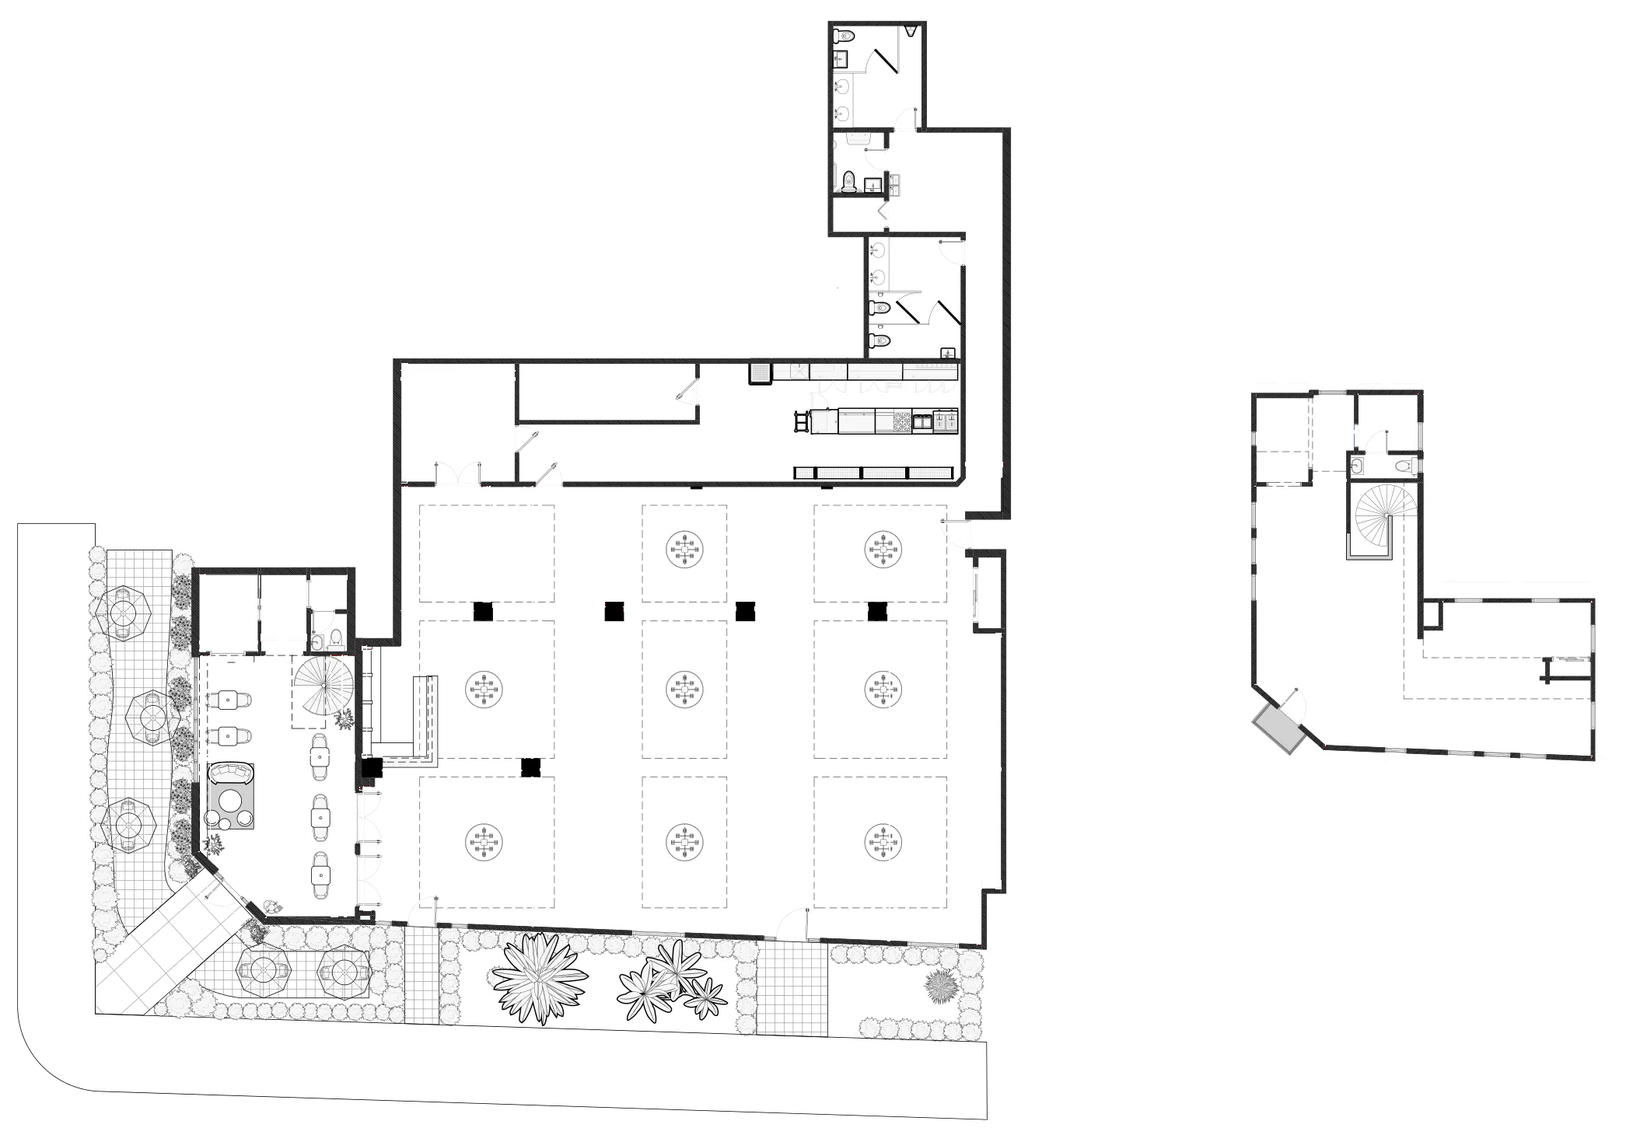
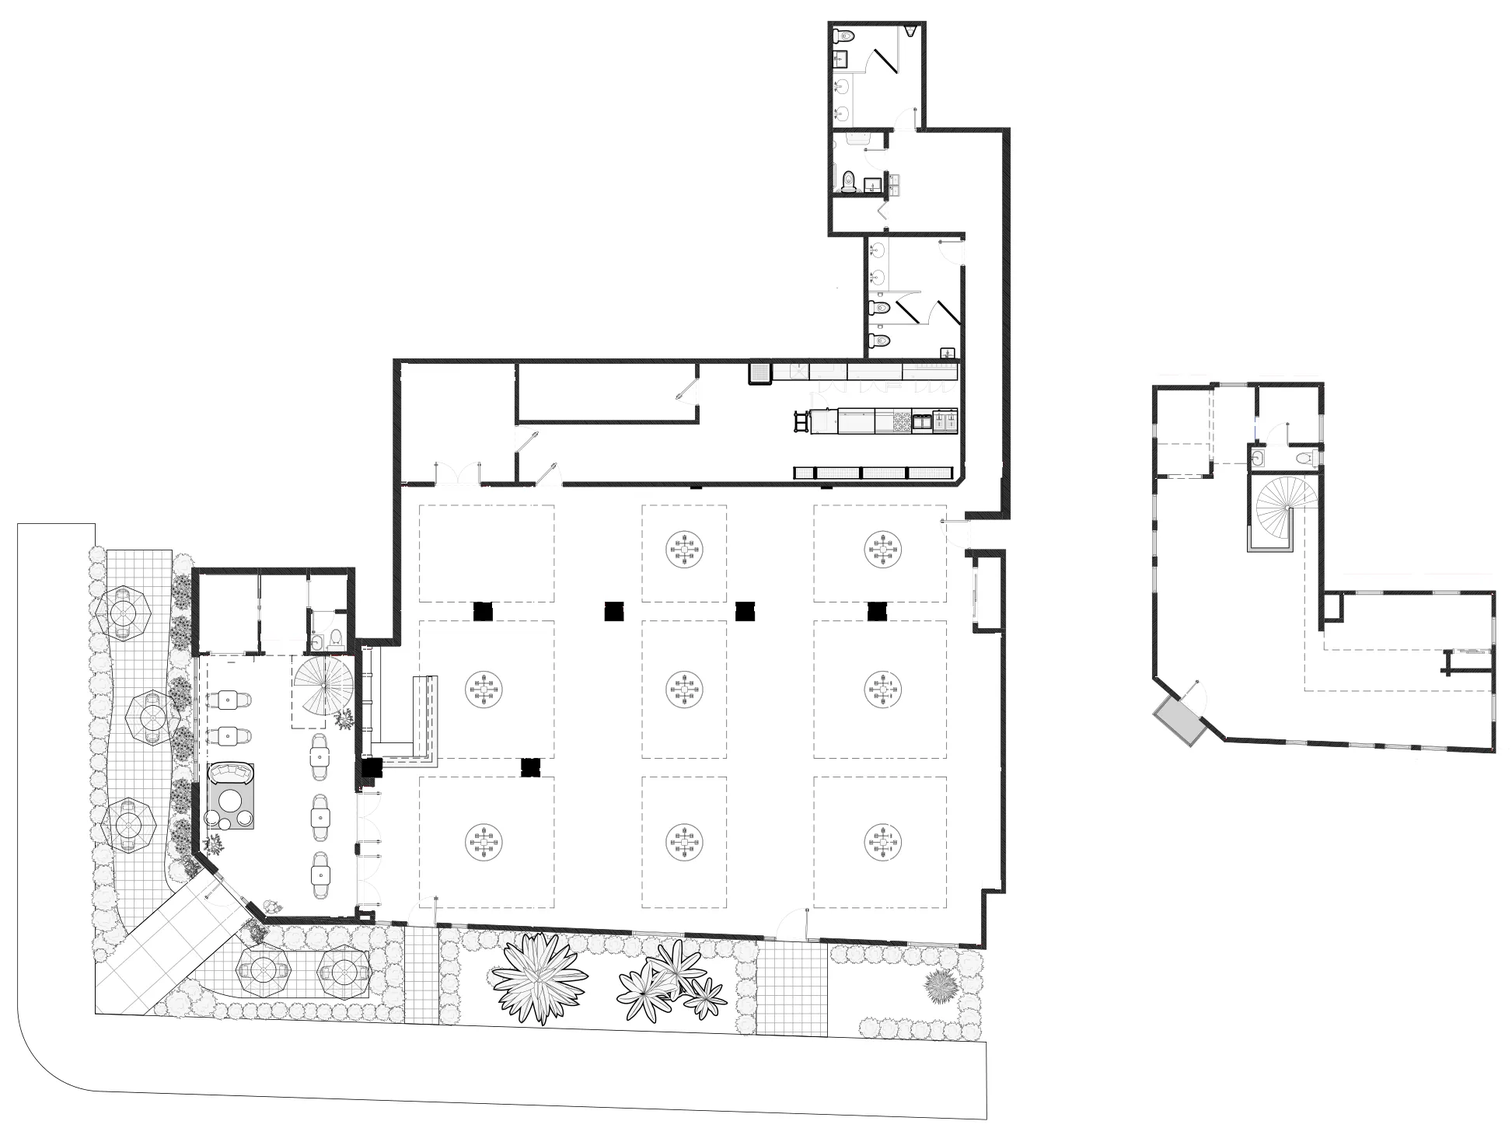
v1.32.1: the inspiration board arrives with the scroll; plan labels, florals print and Lexington frame fixed
- "Imagine it your way" moves: from 901 px the split closes, the LJ seal stamps
  the seam and the plaque polaroid drops onto the corner; on phones the three
  polaroids are dealt in. Driven by the board's own --board-arrival scroll scene,
  the two large pictures drift in their frames, and desktop hover zooms the
  picture under the pointer and turns the seal once. Still under reduced
  motion and Save-Data.
- Floor plan: both floors set side by side at the same scale with a smaller
  gap, and each label sits under its own floor.
- Services florals photograph is a framed print: the bouquet is no longer cut
  at the top and the caption no longer touches the frame edge.
- The Lexington picture fills its arched window with one gold hairline and a
  soft halo instead of a dark gap and a second line.

Claude-Session: https://claude.ai/code/session_01MGJ92D1NKGyL1xAzQCh2iW

diff --git a/index.html b/index.html
@@ -68,12 +68,12 @@
 </script>
 <meta name="color-scheme" content="light"/>
 <meta name="google-maps-browser-key" content=""/>
-<meta name="application-version" content="1.32.0"/>
+<meta name="application-version" content="1.32.1"/>
 <link href="assets/favicon.ico" rel="icon" sizes="any"/>
 <link href="assets/favicon-32.png" rel="icon" sizes="32x32" type="image/png"/>
 <link href="assets/apple-touch-icon.png" rel="apple-touch-icon"/>
 <script>document.documentElement.classList.add("js");</script>
-<link href="styles.css?v=1.32.0" rel="stylesheet"/>
+<link href="styles.css?v=1.32.1" rel="stylesheet"/>
 <link href="assets/fonts/Manrope-latin.woff2" as="font" crossorigin="" rel="preload" type="font/woff2"/>
 <link href="assets/brand/la-jolla-script.svg" as="image" crossorigin="" rel="preload" type="image/svg+xml"/></head>
 <body id="top" class="landing-page">
@@ -268,9 +268,9 @@
 <p class="eyebrow" data-i18n="inspiration.eyebrow">Inspiration</p>
 <h2 id="inspiration-title" class="lockup-script" data-i18n="inspiration.title">Imagine it your way</h2>
 <div class="inspiration-board">
-<figure class="inspiration-print inspiration-print--facade"><picture><source type="image/avif" srcset="assets/venue/web/inspiration-facade.avif"><img src="assets/venue/web/inspiration-facade.webp" alt="An ivy-covered facade dressed as a tea salon, with striped awnings, flowers on the balcony and a pastry cart." width="660" height="825" data-i18n="inspiration.alt.facade" data-i18n-attr="alt" loading="lazy" decoding="async"/></picture><figcaption data-i18n="inspiration.caption.facade">Dressed for a brand</figcaption></figure>
+<figure class="inspiration-print inspiration-print--facade" data-landing-parallax=""><picture><source type="image/avif" srcset="assets/venue/web/inspiration-facade.avif"><img src="assets/venue/web/inspiration-facade.webp" alt="An ivy-covered facade dressed as a tea salon, with striped awnings, flowers on the balcony and a pastry cart." width="660" height="825" data-i18n="inspiration.alt.facade" data-i18n-attr="alt" loading="lazy" decoding="async"/></picture><figcaption data-i18n="inspiration.caption.facade">Dressed for a brand</figcaption></figure>
 <span class="inspiration-seal" aria-hidden="true"><img src="assets/brand/logo-lj-oval-cream.png" alt="" width="40" height="48" loading="lazy"/></span>
-<figure class="inspiration-print inspiration-print--salon"><picture><source type="image/avif" srcset="assets/venue/web/inspiration-salon.avif"><img src="assets/venue/web/inspiration-salon.webp" alt="A blush-pink tea salon with velvet chairs, marble tables, small lamps and a curving staircase." width="960" height="1200" data-i18n="inspiration.alt.salon" data-i18n-attr="alt" loading="lazy" decoding="async"/></picture><figcaption data-i18n="inspiration.caption.salon">A tea-salon afternoon</figcaption></figure>
+<figure class="inspiration-print inspiration-print--salon" data-landing-parallax=""><picture><source type="image/avif" srcset="assets/venue/web/inspiration-salon.avif"><img src="assets/venue/web/inspiration-salon.webp" alt="A blush-pink tea salon with velvet chairs, marble tables, small lamps and a curving staircase." width="960" height="1200" data-i18n="inspiration.alt.salon" data-i18n-attr="alt" loading="lazy" decoding="async"/></picture><figcaption data-i18n="inspiration.caption.salon">A tea-salon afternoon</figcaption></figure>
 <figure class="inspiration-print inspiration-print--plaque"><picture><source type="image/avif" srcset="assets/venue/web/inspiration-plaque.avif"><img src="assets/venue/web/inspiration-plaque.webp" alt="An oval La Jolla Coral Gables 1928 sign beside white flowers and a striped lamp." width="800" height="1000" data-i18n="inspiration.alt.plaque" data-i18n-attr="alt" loading="lazy" decoding="async"/></picture><figcaption data-i18n="inspiration.caption.plaque">Every welcome, signed</figcaption></figure>
 </div>
 </div>
@@ -337,7 +337,7 @@
 <li data-i18n="tour.info.reserve">A tour appointment does not reserve a space for an event.</li>
 <li data-i18n="tour.info.bring">Bring your ideas and inspiration to share with our team.</li>
 </ul>
-<figure class="tour-plan"><a href="assets/tour/floor-plan.webp" target="_blank" rel="noopener"><img src="assets/tour/floor-plan.webp" alt="Floor plan of La Jolla, first and second floor." width="2100" height="1460" data-i18n="tour.planAlt" data-i18n-attr="alt" loading="lazy" decoding="async"/><span class="sr-only" data-i18n="tour.planOpen">Opens the floor plan full size in a new tab</span></a><figcaption><span data-i18n="tour.plan.first">First floor</span><span data-i18n="tour.plan.second">Second floor</span></figcaption></figure>
+<figure class="tour-plan"><a href="assets/tour/floor-plan.webp" target="_blank" rel="noopener"><img src="assets/tour/floor-plan.webp" alt="Floor plan of La Jolla, first and second floor." width="1945" height="1460" data-i18n="tour.planAlt" data-i18n-attr="alt" loading="lazy" decoding="async"/><span class="sr-only" data-i18n="tour.planOpen">Opens the floor plan full size in a new tab</span></a><figcaption><span data-i18n="tour.plan.first">First floor</span><span data-i18n="tour.plan.second">Second floor</span></figcaption></figure>
 </aside>
 <section class="tour-invite reveal" aria-labelledby="tour-invite-title">
 <h3 id="tour-invite-title" class="lockup-script" data-i18n="tour.inviteTitle">We look forward to welcoming you</h3>
@@ -492,7 +492,7 @@
 <iframe class="booking-frame" title="La Jolla venue tour booking calendar" data-i18n="booking.frameTitle" data-i18n-attr="title" referrerpolicy="no-referrer"></iframe>
 <p class="booking-fallback"><span data-i18n="booking.fallback">If the calendar does not load,</span> <a href="https://bookings.cloud.microsoft/book/LajollaCoralGables@NETORGFT21116605.onmicrosoft.com/?ismsaljsauthenabled=true" target="_blank" rel="noopener noreferrer" data-i18n="booking.external">open the booking page in a new tab</a>.</p>
 </dialog>
-<script src="script.js?v=1.32.0"></script>
-<script src="social.js?v=1.32.0"></script>
+<script src="script.js?v=1.32.1"></script>
+<script src="social.js?v=1.32.1"></script>
 </body>
 </html>

diff --git a/styles.css b/styles.css
@@ -2342,3 +2342,45 @@ html:not(.cta-live) .landing-footer { padding-bottom: 96px; }
 .tour-plan a { display: block; }
 .tour-plan img { display: block; width: 100%; height: auto; mix-blend-mode: multiply; }
 .tour-plan figcaption { display: flex; justify-content: space-between; margin-top: 8px; font-size: .8rem; letter-spacing: .06em; color: var(--brand-sage); }
+
+/* —— v1.32.1 The inspiration board arrives ——
+   Driven by the board's own --board-arrival (0 as it enters the view, 1 once its
+   middle reaches the middle of the view), so it follows the scroll both ways; nothing moves without .landing-effects
+   (reduced motion, Save-Data). The two large pictures also drift inside their frames. */
+.inspiration-print picture { overflow: hidden; }
+.landing-effects .inspiration-board { --board-rest: calc(1 - var(--board-arrival, 1)); }
+@media (min-width: 901px) {
+  /* The split closes: each half slides in from its side, the seal stamps the seam, the polaroid drops onto the corner. */
+  .landing-effects .inspiration-print--facade { transform: translateX(calc(var(--board-rest) * -80px)) rotate(calc(var(--board-rest) * -3deg)); }
+  .landing-effects .inspiration-print--salon { transform: translateX(calc(var(--board-rest) * 80px)) rotate(calc(var(--board-rest) * 3deg)); }
+  .landing-effects .inspiration-seal { transform: scale(calc(.5 + var(--section-arrival, 1) * .5)) rotate(calc(var(--board-rest) * -140deg)); }
+  .landing-effects .inspiration-print--plaque { transform: translate(calc(var(--board-rest) * 40px), calc(var(--board-rest) * -150px)) rotate(calc(var(--board-rest) * 16deg)); }
+}
+@media (max-width: 900.98px) {
+  /* Polaroids are dealt onto the card from three directions. */
+  .landing-effects .inspiration-print--salon { transform: translateY(calc(var(--board-rest) * 70px)) rotate(calc(var(--board-rest) * 5deg)); }
+  .landing-effects .inspiration-print--facade { transform: translateX(calc(var(--board-rest) * -60px)) rotate(calc(var(--board-rest) * -8deg)); }
+  .landing-effects .inspiration-print--plaque { transform: translateX(calc(var(--board-rest) * 60px)) rotate(calc(var(--board-rest) * 8deg)); }
+}
+@media (hover: hover) and (min-width: 901px) and (prefers-reduced-motion: no-preference) {
+  .inspiration-print--facade img, .inspiration-print--salon img { transition: scale 1.1s cubic-bezier(.2, .7, .2, 1), filter .8s; }
+  .inspiration-print--facade:hover img, .inspiration-print--salon:hover img { scale: 1.045; }
+  .inspiration-board:has(.inspiration-print:hover) .inspiration-print:not(:hover) img { filter: saturate(.7) brightness(.96); }
+  .inspiration-print--facade figcaption, .inspiration-print--salon figcaption { transition: translate .6s cubic-bezier(.2, .7, .2, 1); }
+  .inspiration-print--facade:hover figcaption, .inspiration-print--salon:hover figcaption { translate: -50% -5px; }
+  .inspiration-seal img { transition: rotate 1.6s cubic-bezier(.3, .1, .2, 1); }
+  .inspiration-board:hover .inspiration-seal img { rotate: 360deg; }
+  .inspiration-print--plaque { transition: rotate .7s cubic-bezier(.2, .7, .2, 1), scale .7s cubic-bezier(.2, .7, .2, 1); }
+  .inspiration-print--plaque:hover { rotate: 0deg; scale: 1.06; }
+}
+
+/* —— v1.32.1 Fixes from the owner's review of v1.32.0 —— */
+/* Each floor's label sits under its own drawing (columns follow the plan image: 1322 px floor, 140 px gap, 483 px floor). */
+.tour-plan figcaption { display: grid; grid-template-columns: 1322fr 140fr 483fr; text-align: center; white-space: nowrap; }
+.tour-plan figcaption span:last-child { grid-column: 3; }
+/* The florals photograph is a framed print: the caption no longer touches the frame edge and the bouquet is not cut at the top. */
+.services-photo { padding: 12px 12px 2px; background: #fffdf8; }
+.services-photo img { max-height: 560px; object-position: 50% 12%; }
+.services-photo figcaption { margin: 10px 2px 10px; }
+/* The Lexington picture fills its window: one gold hairline and a soft halo instead of a dark gap and a second line; a lower arch keeps more of the room. */
+.landing-alcazar .alcazar-visual img { border-radius: 50% 50% 0 0 / 26% 26% 0 0; box-shadow: 0 0 0 1px #c9a96b99, 0 0 0 8px #c9a96b14, 0 36px 70px -36px #000000b3; }

diff --git a/script.js b/script.js
@@ -1196,6 +1196,7 @@
     const services = [...document.querySelectorAll('.rentals-quiet li')];
     const cards = [...document.querySelectorAll('.house-grid > li')];
     const seal = document.querySelector('.planning-seal');
+    const inspirationBoard = document.querySelector('.inspiration-board');
     const scenes = [
       ...inked.map(element => ({ element, update() {
         const box = element.getBoundingClientRect();
@@ -1236,6 +1237,11 @@
         // Measure the untransformed grid, never the moving plate itself.
         const grid = document.querySelector('.house-grid').getBoundingClientRect().top;
         cardTops.forEach((top, index) => cards[index].style.setProperty('--scatter', (1 - ease(clamp((innerHeight * 1.05 - grid - top) / (innerHeight * .6)))).toFixed(4)));
+      } },
+      inspirationBoard && { element: inspirationBoard, update() {
+        // Settled once the middle of the board reaches the middle of the view.
+        const box = inspirationBoard.getBoundingClientRect();
+        inspirationBoard.style.setProperty('--board-arrival', ease(clamp((innerHeight - box.top) / ((innerHeight + box.height) * .5))).toFixed(4));
       } },
       seal && { element: seal, update() {
         const box = { top: seal.offsetParent.getBoundingClientRect().top + seal.offsetTop };
@@ -1297,6 +1303,7 @@
       services.forEach(item => item.style.removeProperty('--enter'));
       cards.forEach(card => ['--scatter', '--scatter-x', '--scatter-r'].forEach(name => card.style.removeProperty(name)));
       seal?.style.removeProperty('--stamp');
+      inspirationBoard?.style.removeProperty('--board-arrival');
       if (albumIndex) albumIndex.textContent = '01';
       album?.classList.remove('is-staged');
       preload?.disconnect();
@@ -1314,7 +1321,7 @@
         if (box.bottom > 0 && box.top < innerHeight) photo.classList.add('has-arrived');
       });
       document.body.classList.add('landing-effects');
-      // Only three photographs drift. Complete text never fades or follows scroll.
+      // Only the photographs marked data-landing-parallax drift. Complete text never fades or follows scroll.
       observer = new IntersectionObserver(entries => {
         entries.forEach(entry => entry.isIntersecting ? visible.add(entry.target) : visible.delete(entry.target));
         schedule();

diff --git a/planning.html b/planning.html
@@ -40,12 +40,12 @@
 }
 </script>
 <meta name="color-scheme" content="light"/>
-<meta name="application-version" content="1.32.0"/>
+<meta name="application-version" content="1.32.1"/>
 <link href="assets/favicon.ico" rel="icon" sizes="any"/>
 <link href="assets/favicon-32.png" rel="icon" sizes="32x32" type="image/png"/>
 <link href="assets/apple-touch-icon.png" rel="apple-touch-icon"/>
 <script>document.documentElement.classList.add("js");</script>
-<link href="styles.css?v=1.32.0" rel="stylesheet"/>
+<link href="styles.css?v=1.32.1" rel="stylesheet"/>
 <link href="assets/fonts/Manrope-latin.woff2" as="font" crossorigin="" rel="preload" type="font/woff2"/>
 <link href="assets/brand/la-jolla-script.svg" as="image" crossorigin="" rel="preload" type="image/svg+xml"/></head>
 <body id="top" class="planning-page">
@@ -144,6 +144,6 @@
 <iframe class="booking-frame" title="La Jolla venue tour booking calendar" data-i18n="booking.frameTitle" data-i18n-attr="title" referrerpolicy="no-referrer"></iframe>
 <p class="booking-fallback"><span data-i18n="booking.fallback">If the calendar does not load,</span> <a href="https://bookings.cloud.microsoft/book/LajollaCoralGables@NETORGFT21116605.onmicrosoft.com/?ismsaljsauthenabled=true" target="_blank" rel="noopener noreferrer" data-i18n="booking.external">open the booking page in a new tab</a>.</p>
 </dialog>
-<script src="script.js?v=1.32.0"></script>
+<script src="script.js?v=1.32.1"></script>
 </body>
 </html>

diff --git a/privacy.html b/privacy.html
@@ -41,7 +41,7 @@
 </script>
 <meta name="color-scheme" content="light"/>
 <link href="assets/favicon.ico" rel="icon" sizes="any"/>
-<link href="styles.css?v=1.32.0" rel="stylesheet"/>
+<link href="styles.css?v=1.32.1" rel="stylesheet"/>
 <link href="assets/fonts/Manrope-latin.woff2" as="font" crossorigin="" rel="preload" type="font/woff2"/>
 <link href="assets/brand/la-jolla-script.svg" as="image" crossorigin="" rel="preload" type="image/svg+xml"/></head>
 <body class="legal-page">
@@ -96,6 +96,6 @@
 <iframe class="booking-frame" title="La Jolla venue tour booking calendar" data-i18n="booking.frameTitle" data-i18n-attr="title" referrerpolicy="no-referrer"></iframe>
 <p class="booking-fallback"><span data-i18n="booking.fallback">If the calendar does not load,</span> <a href="https://bookings.cloud.microsoft/book/LajollaCoralGables@NETORGFT21116605.onmicrosoft.com/?ismsaljsauthenabled=true" target="_blank" rel="noopener noreferrer" data-i18n="booking.external">open the booking page in a new tab</a>.</p>
 </dialog>
-<script src="script.js?v=1.32.0"></script>
+<script src="script.js?v=1.32.1"></script>
 </body>
 </html>

diff --git a/terms.html b/terms.html
@@ -41,7 +41,7 @@
 </script>
 <meta name="color-scheme" content="light"/>
 <link href="assets/favicon.ico" rel="icon" sizes="any"/>
-<link href="styles.css?v=1.32.0" rel="stylesheet"/>
+<link href="styles.css?v=1.32.1" rel="stylesheet"/>
 <link href="assets/fonts/Manrope-latin.woff2" as="font" crossorigin="" rel="preload" type="font/woff2"/>
 <link href="assets/brand/la-jolla-script.svg" as="image" crossorigin="" rel="preload" type="image/svg+xml"/></head>
 <body class="legal-page">
@@ -92,6 +92,6 @@
 <iframe class="booking-frame" title="La Jolla venue tour booking calendar" data-i18n="booking.frameTitle" data-i18n-attr="title" referrerpolicy="no-referrer"></iframe>
 <p class="booking-fallback"><span data-i18n="booking.fallback">If the calendar does not load,</span> <a href="https://bookings.cloud.microsoft/book/LajollaCoralGables@NETORGFT21116605.onmicrosoft.com/?ismsaljsauthenabled=true" target="_blank" rel="noopener noreferrer" data-i18n="booking.external">open the booking page in a new tab</a>.</p>
 </dialog>
-<script src="script.js?v=1.32.0"></script>
+<script src="script.js?v=1.32.1"></script>
 </body>
 </html>

diff --git a/scripts/extra-photos.py b/scripts/extra-photos.py
@@ -41,8 +41,11 @@ WEB = {
 PLAN = 'assets/tour/floor-plan.webp'
 # At 150 dpi the drawing (both floors) spans x 222-2270, y 77-1500; the LJ logo sits at x 2211-2474, y 1313-1584.
 PLAN_BOX, LOGO = (200, 50, 2300, 1510), (2200, 1300, 2550, 1650)
+# Inside that crop the first floor spans x 22-1300 and the second x 1609-2052, y 501-979.
+FIRST_FLOOR, SECOND_FLOOR, FLOOR_GAP = (0, 0, 1322, 1460), (1589, 481, 2072, 999), 140
 PLAN_TREATMENT = ('Page 2 rendered at 150 dpi after redacting every text span (measurements, areas, ceiling heights, '
-                  'room and build notes); red and pink dimension lines whitened; logo removed; both floors in a 2100x1460 crop, WebP q80')
+                  'room and build notes); red and pink dimension lines whitened; logo removed; both floors cropped at the same scale and set side by side '
+                  '(second floor 140 px after the first, centred on it) in a 1945x1460 image, WebP q80')
 
 
 def sha256_bytes(data):
@@ -105,6 +108,15 @@ def build():
     grey = np.asarray(plan.convert('L'))
     if min(grey[:, :8].min(), grey[:, -8:].min(), grey[:8].min(), grey[-8:].min()) < 200:
         sys.exit('floor plan: the drawing touches the crop edge')
+    # Bring the second floor next to the first, at the same scale, so each label can sit under its own floor.
+    first, second = plan.crop(FIRST_FLOOR), plan.crop(SECOND_FLOOR)
+    for floor in (first, second):
+        grey = np.asarray(floor.convert('L'))
+        if min(grey[:, :4].min(), grey[:, -4:].min(), grey[:4].min(), grey[-4:].min()) < 200:
+            sys.exit('floor plan: a floor touches its crop edge')
+    plan = Image.new('RGB', (first.width + FLOOR_GAP + second.width, first.height), 'white')
+    plan.paste(first, (0, 0))
+    plan.paste(second, (first.width + FLOOR_GAP, (first.height - second.height) // 2))
     out = io.BytesIO()
     plan.save(out, 'WEBP', quality=80, method=6)
     files[PLAN] = out.getvalue()

diff --git a/tests/releases/v1.32.1.md b/tests/releases/v1.32.1.md
@@ -1,0 +1,11 @@
+# v1.32.1 — the "Imagine it your way" board comes alive
+
+Dan saw v1.32.0 live and liked the board but found it static ("esta bonito si y me gusta pero estatico... ponle como algun efecto que combine con el sitio y la imagen").
+
+1. **Arrival with the scroll**, driven by the board's own `--board-arrival` (set by `script.js` like the other scroll scenes: 0 as the board enters the view, 1 once its middle reaches the middle of the view), so it plays forwards and backwards. From 901 px the split closes: the facade slides in from the left and the salon from the right with a slight tilt, the LJ seal stamps the seam (it grows and turns into place) and the plaque polaroid drops onto the corner. Up to 900 px the three polaroids are dealt onto the card from three directions.
+2. **Depth**: the facade and the salon drift gently inside their frames, like the history and hall photographs (`data-landing-parallax`).
+3. **On a desktop pointer**: the picture under the pointer zooms slightly while the other one softens, its label lifts, the seal turns once, and the plaque straightens and comes forward.
+
+Nothing moves under reduced motion or Save-Data (all arrival rules sit under `.landing-effects`; hover effects need `prefers-reduced-motion: no-preference`). No `opacity: 0` and no `clip-path`; pictures, text and labels are always visible. No content, image or copy changed.
+
+Checks: `npm test`, `python scripts/extra-photos.py --check` and the browser suites, run locally on Chromium; screenshots at 1440 and 390 px in mid-arrival and settled poses.

diff --git a/tests/ROADMAP.md b/tests/ROADMAP.md
@@ -241,3 +241,7 @@ Ten occasions, ten photographs from the owner's media; a sticky frame that follo
 
 - The owners sent a PDF of extra pictures. The Lexington shows their photograph of the lounge instead of the awning monogram; a new "Imagine it your way" board (sage stripes, split facade/salon with the LJ seal on wide screens, polaroids on phones) shows the facade dressed as a tea house, a tea salon and the welcome plaque (no "styling concept" label, Dan's decision); the tour's "Good to know" card shows the floor plan without measurements, areas or notes. See `tests/releases/v1.32.0.md`.
 - The owners confirmed to Dan on 2026-10-27 that the lounge picture is The Lexington and that the saxophonist may appear. Next: ask whether they want their own copy for the board.
+
+## v1.32.1 — the "Imagine it your way" board comes alive
+
+- Dan found the board static. It now arrives with the scroll (the split closes, the LJ seal stamps the seam, the plaque polaroid drops onto the corner; polaroids dealt in on phones), the two large pictures drift in their frames, and on desktop the picture under the pointer zooms while the seal turns once. Reduced motion and Save-Data keep it still. See `tests/releases/v1.32.1.md`.

diff --git a/README.md b/README.md
@@ -23,7 +23,7 @@ Work follows `feature/*` → pull request to `develop` → Claude CLI Sonnet hig
 
 GitHub Pages publishes `main` for https://lajollacoralgables.com. The owner selected GitHub hosting and retired the temporary jolla.peluzzza.com alias. Domain registration, DNS and Microsoft 365 email remain in GoDaddy. Verify the live version, assets, navigation and legal pages after each deployment. The release workflow does not claim that inbox delivery or the Pages deployment has been verified.
 
-See [the current roadmap](tests/ROADMAP.md), [release policy](tests/RELEASES.md), [v1.32.0 notes](tests/releases/v1.32.0.md) and [the latest review](tests/reviews/v1.16.2.md) and [the historical review](tests/REVIEW-2026-10-04.md).
+See [the current roadmap](tests/ROADMAP.md), [release policy](tests/RELEASES.md), [v1.32.1 notes](tests/releases/v1.32.1.md) and [the latest review](tests/reviews/v1.16.2.md) and [the historical review](tests/REVIEW-2026-10-04.md).
 
 ## Optional live guest reviews
 
